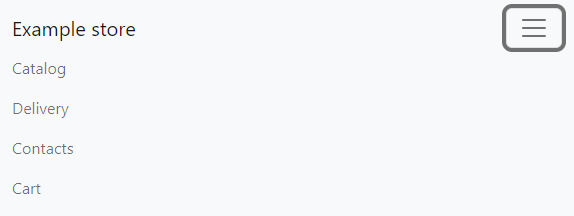
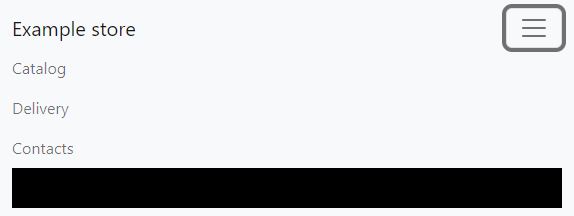
cart

Changed region(s): [[0.0, 0.7778, 0.9774, 0.9722]]

diff --git a/test/hermione/cart.hermione.js b/test/hermione/cart.hermione.js
@@ -1,0 +1,166 @@
+const { node } = require('webpack');
+const { bugId } = require('./bugId');
+const { assert } = require('chai');
+
+describe('cart', async function() {
+    it('should add product in cart from catalog', async function({browser}) {
+        const puppeteer = await browser.getPuppeteer();
+        const [page] = await puppeteer.pages()
+        await page.goto('http://localhost:3000/hw/store/catalog/0' + bugId);
+        await page.evaluate(() => {
+            localStorage.clear();
+        });
+
+        const addToCart = await page.waitForSelector('.ProductDetails-AddToCart');
+        await addToCart.click()
+        const text = (await page.$eval('.nav-link:nth-of-type(4)', node => node.innerHTML));
+        assert.equal(text, 'Cart (1)', 'cart count should be increased');
+        await page.evaluate(() => {
+            localStorage.clear();
+        });
+    });
+
+    it('should save cart in localStorage', async function({browser}) {
+        const puppeteer = await browser.getPuppeteer();
+        const [page] = await puppeteer.pages()
+        await page.goto('http://localhost:3000/hw/store/catalog/0' + bugId);
+        await page.evaluate(() => {
+            localStorage.clear();
+        });
+        let addToCart = await page.waitForSelector('.ProductDetails-AddToCart');
+        await addToCart.click()
+        let text = (await page.$eval('.nav-link:nth-of-type(4)', node => node.innerHTML));
+        console.log(text);
+        if (text === 'Cart') {
+            return;
+        }
+        await page.goto('http://localhost:3000/hw/store/catalog/0' + bugId);
+        addToCart = await page.waitForSelector('.ProductDetails-AddToCart');
+        text = (await page.$eval('.nav-link:nth-of-type(4)', node => node.innerHTML));
+        console.log(text);
+        assert.equal(text, 'Cart (1)', 'cart count should be the same');
+        await page.evaluate(() => {
+            localStorage.clear();
+        });
+    });
+
+    it('should make checkout', async function({browser}) {
+        const puppeteer = await browser.getPuppeteer();
+        const [page] = await puppeteer.pages()
+        await page.goto('http://localhost:3000/hw/store/cart' + bugId);
+        await page.evaluate(() => {
+            localStorage.setItem('example-store-cart', '{"1":{"name":"Ergonomic Gloves","count":1,"price":113}}');
+        });
+        await page.goto('http://localhost:3000/hw/store/cart' + bugId);
+        const nameInput = await page.waitForSelector('.Form-Field_type_name')
+        const phoneInput = await page.waitForSelector('.Form-Field_type_phone')
+        const addressInput = await page.waitForSelector('.Form-Field_type_address')
+        const checkoutButton = await page.waitForSelector('.Form-Submit')
+        await nameInput.type('John');
+        await phoneInput.type('+71234567890');
+        await addressInput.type('aba ba');
+        await checkoutButton.click();
+        await browser.pause(2000);
+        const sended = !Boolean(await page.$('.Form-Submit'));
+        console.log(sended);
+        if (sended) {
+            return;
+        }
+        const errors = await Promise.all((await page.$$('.invalid-feedback')).map(inv => inv.boundingBox()));
+        console.log(errors.filter(err => (err != null)));
+        if (errors.filter(err => (err != null)).length === 0) {
+            console.log('hi');
+            assert.fail('inputs were correct, but page did not changed');
+        }
+    });
+
+    it('should check inputs correctly', async function({browser}) {
+        const puppeteer = await browser.getPuppeteer();
+        const [page] = await puppeteer.pages()
+        await page.goto('http://localhost:3000/hw/store/cart' + bugId);
+        await page.evaluate(() => {
+            localStorage.setItem('example-store-cart', '{"1":{"name":"Ergonomic Gloves","count":1,"price":113}}');
+        });
+        await page.goto('http://localhost:3000/hw/store/cart' + bugId);
+        const nameInput = await page.waitForSelector('.Form-Field_type_name')
+        const phoneInput = await page.waitForSelector('.Form-Field_type_phone')
+        const addressInput = await page.waitForSelector('.Form-Field_type_address')
+        const checkoutButton = await page.waitForSelector('.Form-Submit')
+        await nameInput.type('John');
+        await phoneInput.type('+71234567890');
+        await addressInput.type('aba ba');
+        await checkoutButton.click();
+        await browser.pause(2000);
+        const sended = !Boolean(await page.$('.Form-Submit'));
+        console.log(sended);
+        if (sended) {
+            return;
+        }
+        const errors = await Promise.all((await page.$$('.invalid-feedback')).map(inv => inv.boundingBox()));
+        assert.isNull(errors[0], 'name was correct, but error happend');
+        assert.isNull(errors[1], 'phone was correct, but error happend');
+        assert.isNull(errors[2], 'address was correct, but error happend');
+    });
+
+    it('should show succesfull card', async function({browser}) {
+        const puppeteer = await browser.getPuppeteer();
+        const [page] = await puppeteer.pages()
+        await page.goto('http://localhost:3000/hw/store/cart' + bugId);
+        await page.evaluate(() => {
+            localStorage.setItem('example-store-cart', '{"1":{"name":"Ergonomic Gloves","count":1,"price":113}}');
+        });
+        await page.goto('http://localhost:3000/hw/store/cart' + bugId);
+        const nameInput = await page.waitForSelector('.Form-Field_type_name')
+        const phoneInput = await page.waitForSelector('.Form-Field_type_phone')
+        const addressInput = await page.waitForSelector('.Form-Field_type_address')
+        const checkoutButton = await page.waitForSelector('.Form-Submit')
+        await nameInput.type('John');
+        await phoneInput.type('+71234567890');
+        await addressInput.type('aba ba');
+        await checkoutButton.click();
+        await browser.pause(2000);
+        const sended = !Boolean(await page.$('.Form-Submit'));
+        console.log(sended);
+        if (!sended) {
+            return;
+        }
+        const successCard = await page.$eval('.Cart-SuccessMessage', node => ({
+            classes: node.className,
+        }))
+        if (!successCard.classes.includes('alert-success')) {
+            assert.fail('Successful card should have alert-success class');
+        }
+    });
+
+    it('should show correct order number', async function({browser}) {
+        const puppeteer = await browser.getPuppeteer();
+        const [page] = await puppeteer.pages()
+        await page.goto('http://localhost:3000/hw/store/cart' + bugId);
+        await page.evaluate(() => {
+            localStorage.setItem('example-store-cart', '{"1":{"name":"Ergonomic Gloves","count":1,"price":113}}');
+        });
+        await page.goto('http://localhost:3000/hw/store/cart' + bugId);
+        const nameInput = await page.waitForSelector('.Form-Field_type_name')
+        const phoneInput = await page.waitForSelector('.Form-Field_type_phone')
+        const addressInput = await page.waitForSelector('.Form-Field_type_address')
+        const checkoutButton = await page.waitForSelector('.Form-Submit')
+        await nameInput.type('John');
+        await phoneInput.type('+71234567890');
+        await addressInput.type('aba ba');
+        await checkoutButton.click();
+        await browser.pause(2000);
+        const sended = !Boolean(await page.$('.Form-Submit'));
+        console.log(sended);
+        if (!sended) {
+            return;
+        }
+        const successCard = await page.$eval('.Cart-SuccessMessage', node => ({
+            order: node.querySelector('.Cart-Number').innerHTML
+        }))
+        assert.isNumber(+successCard.order, 'Order number should be a number');
+        if (+successCard.order > 100 || +successCard.order < 1) {
+            assert.fail('order number has invalid value')
+        }
+    });
+
+});

diff --git a/test/hermione/catalog.hermione.js b/test/hermione/catalog.hermione.js
@@ -63,16 +63,7 @@ describe('catalog', async function() {
         if (await page.$eval('.Product', node => node.innerHTML) === 'LOADING') {
             return;
         }
-        await browser.assertView('plain', '.Product', {
-            ignoreElements: [
-                '.ProductDetails-Name',
-                '.ProductDetails-Description',
-                '.ProductDetails-Price',
-                '.ProductDetails-Color',
-                '.ProductDetails-Material'
-
-            ]
-        })
+        await browser.assertView('plain', '.ProductDetails-AddToCart');
     });
 
 });

diff --git a/test/hermione/hamburgerMenu.hermione.js b/test/hermione/hamburgerMenu.hermione.js
@@ -12,7 +12,7 @@ describe('hamburger menu', async function() {
         const hamburger = await header.waitForSelector('.navbar-toggler');
         await hamburger.click();
         await browser.pause(1000);
-        await browser.assertView('opened', '.navbar');
+        await browser.assertView('opened', '.navbar', {ignoreElements: ['.nav-link:nth-of-type(4)']});
         await hamburger.click();
         await browser.pause(1000);
         await browser.assertView('closedAfterClickOnBurger', '.navbar');

diff --git a/test/hermione/bugId.js b/test/hermione/bugId.js
@@ -1,2 +1,2 @@
 // This bugId will be in all hermione tests
-module.exports = {bugId: '?bug_id=3'}
+module.exports = {bugId: '?bug_id=0'}
